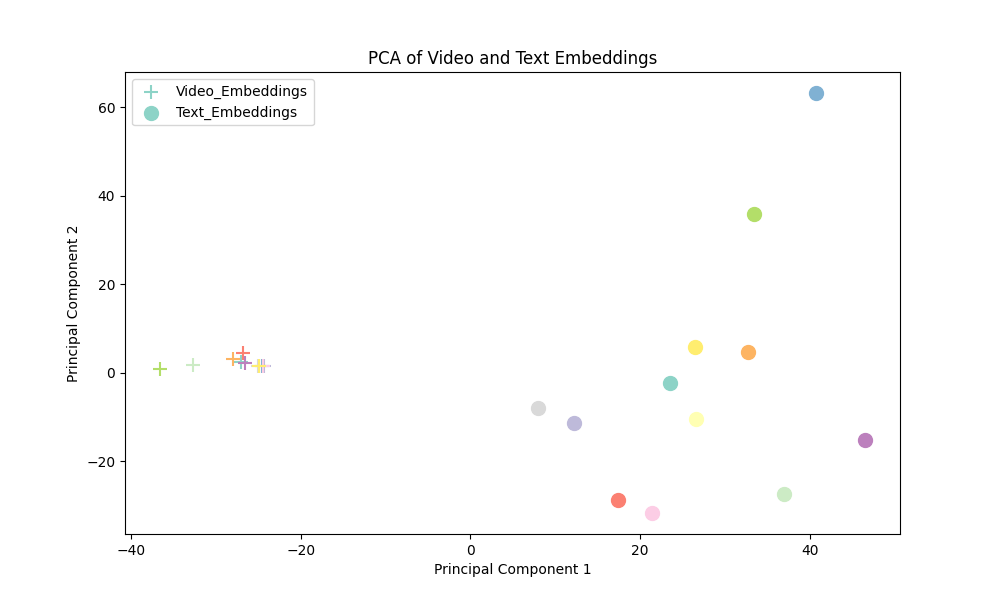
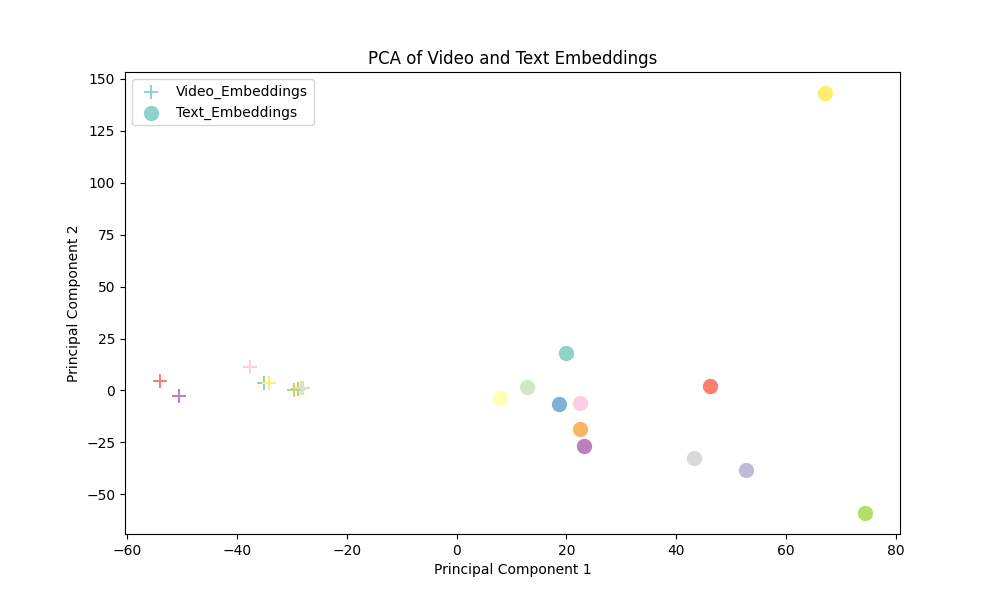
tiny modify

diff --git a/visualization/pca.py b/visualization/pca.py
@@ -21,14 +21,18 @@ def check_pairs(reduced_video_embeddings, reduced_text_embeddings, mappings, sma
     index_to_text_label = mappings["index_to_text_label"]
 
     if small_scale:
-        nearest_text_indices = sorted_text_indices[:, 0]
-        correct_pairs = nearest_text_indices == np.arange(len(reduced_video_embeddings))
-        accuracy = np.mean(correct_pairs)
-        print(f"Top1 accuracy: {accuracy * 100:.2f}%")
+        ground_truth_indices = np.arange(len(reduced_video_embeddings))
+        for n in [1, 3, 5]:
+            correct_pairs = np.array(
+                [ground_truth in sorted_text_indices[i, :n] for i, ground_truth in enumerate(ground_truth_indices)])
+            accuracy = np.mean(correct_pairs)
+            print(f"Top {n} accuracy: {accuracy * 100:.2f}%")
+        top_1_indices = sorted_text_indices[:, 0]
+        correct_top_1_pairs = top_1_indices == ground_truth_indices
+        incorrect_top_1_indices = np.where(~correct_top_1_pairs)[0]
 
-        incorrect_pair_indices = np.where(~correct_pairs)[0]
-        incorrect_pair_video_id = [index_to_video_id[j] for j in incorrect_pair_indices]
-        print(f"IDs of incorrectly paired video embeddings: {incorrect_pair_video_id}")
+        incorrect_pair_video_id = [mappings["index_to_video_id"][i] for i in incorrect_top_1_indices]
+        print(f"IDs of incorrectly paired video embeddings (Top 1): {incorrect_pair_video_id}")
 
         for i, indices in enumerate(sorted_text_indices):
             video_id = index_to_video_id[i]

diff --git a/visualization/mlp.py b/visualization/mlp.py
@@ -41,7 +41,8 @@ def mlp_train(num_epochs, video_embeddings, text_embeddings, dimension):
     optimizer = torch.optim.Adam(model.parameters(), lr=0.0005)
     checkpoint_interval = 100
     save_dir = "/scr/yusenluo/RoboCLIP/visualization/saved_model"
-    video_embeddings, text_embeddings = reduce_dimension(video_embeddings,text_embeddings,dimension)
+    if dimension != 512:
+        video_embeddings, text_embeddings = reduce_dimension(video_embeddings,text_embeddings,dimension)
     for epoch in range(num_epochs):
         adjusted_video_embeddings = model(video_embeddings)
         loss = criterion(adjusted_video_embeddings, text_embeddings)
@@ -68,8 +69,8 @@ def mlp_train(num_epochs, video_embeddings, text_embeddings, dimension):
 
 def mlp_eval(video_embeddings, text_embeddings = None):
 
-    model = SimpleMLP(input_dim=16, output_dim=16)
-    model_path = "/scr/yusenluo/RoboCLIP/visualization/saved_model/final_model_16.pth"
+    model = SimpleMLP(input_dim=512, output_dim=512)
+    model_path = "/scr/yusenluo/RoboCLIP/visualization/saved_model/final_model.pth"
     model.load_state_dict(torch.load(model_path))
 
     model.eval()
@@ -92,4 +93,4 @@ if __name__ == '__main__':
     s3d.eval()
     video_embeddings, text_embeddings, embeddings_dataset, mappings = Embedding(s3d, data_loader)
     #video_embeddings, text_embeddings = reduce_dimension(video_embeddings,text_embeddings, 16)
-    mlp_train(2000, video_embeddings, text_embeddings, 16)
+    mlp_train(2000, video_embeddings, text_embeddings, 512)

diff --git a/visualization/task1.py b/visualization/task1.py
@@ -128,19 +128,21 @@ if __name__ == '__main__':
         f"Max L2 Distance: {max_distance.item():.2f}"
     )
 
-    pca = joblib.load('saved_model/pca_model_16.pkl')
-    video_embeddings = pca.transform(video_embeddings)
-    text_embeddings = pca.transform(text_embeddings)
-
+    # pca = joblib.load('saved_model/pca_model_16.pkl')
+    # video_embeddings = pca.transform(video_embeddings)
+    # text_embeddings = pca.transform(text_embeddings)
+    print("result before mlp")
     plot_embeddings(video_embeddings, text_embeddings, mappings,
                     'plots', 'pca_plot_nomlp2D.png', True)
     plot_embeddings_3d(video_embeddings, text_embeddings, mappings,
                        'plots', 'pca_plot_nomlp3D.png', True)
 
-
-    adjust_video_embeddings = mlp_eval(th.from_numpy(video_embeddings).float())
+    print("result after mlp")
+    #video_embeddings = th.from_numpy(video_embeddings).float()
+    adjust_video_embeddings = mlp_eval(video_embeddings)
     #video_embeddings_recovered = pca.inverse_transform(adjust_video_embeddings)
+
     plot_embeddings(adjust_video_embeddings, text_embeddings, mappings,
-                    'plots', 'pca_plot_mlp2D_16.png', True)
+                    'plots', 'pca_plot_mlp2D.png', True)
     plot_embeddings_3d(adjust_video_embeddings, text_embeddings, mappings,
-                       'plots', 'pca_plot_mlp3D_16.png', True)
+                       'plots', 'pca_plot_mlp3D.png', True)
